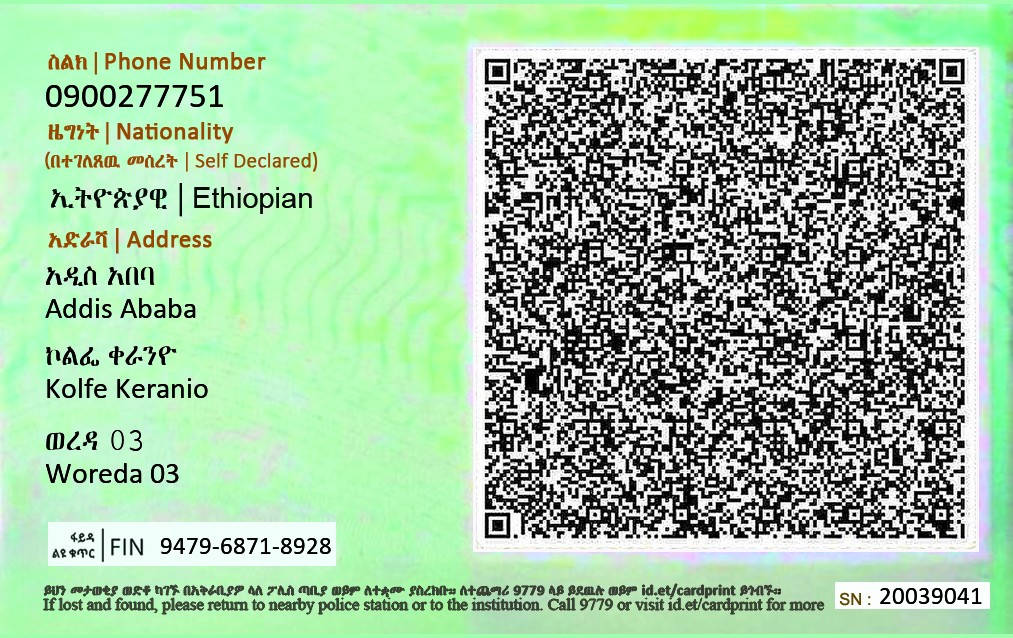
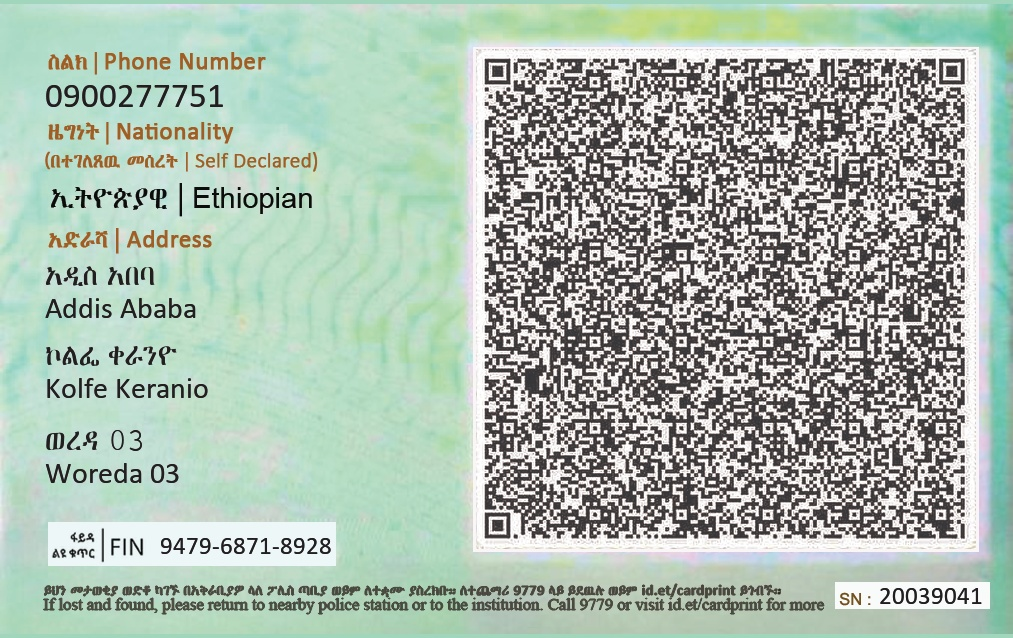
Ensure template preview colors accurately match original designs
Update the template preview generation to preserve original color profiles during conversion from TIFF to JPEG, and modify the `/setpreview` command to handle color profile conversions correctly.

Replit-Commit-Author: Agent
Replit-Commit-Session-Id: 9d289a8d-4025-4ad5-a741-2702ab587f8f
Replit-Commit-Checkpoint-Type: full_checkpoint
Replit-Commit-Event-Id: 866182e9-7643-4a6c-8799-c6b3b628e803
Replit-Helium-Checkpoint-Created: true

diff --git a/app/bot.py b/app/bot.py
@@ -399,9 +399,17 @@ async def setpreview_command(update: Update, context: ContextTypes.DEFAULT_TYPE)
 
     await file.download_to_drive(tmp_path)
 
-    from PIL import Image as _Img
-    img = _Img.open(tmp_path).convert("RGB")
-    img.save(final_path, "JPEG", quality=92)
+    from PIL import Image as _Img, ImageCms as _Cms
+    import io as _io
+    img = _Img.open(tmp_path)
+    icc = img.info.get("icc_profile")
+    if img.mode == "CMYK" and icc:
+        src_profile = _Cms.ImageCmsProfile(_io.BytesIO(icc))
+        dst_profile = _Cms.createProfile("sRGB")
+        img = _Cms.profileToProfile(img, src_profile, dst_profile, outputMode="RGB")
+    elif img.mode != "RGB":
+        img = img.convert("RGB")
+    img.save(final_path, "JPEG", quality=95)
     os.remove(tmp_path)
 
     await update.message.reply_photo(
